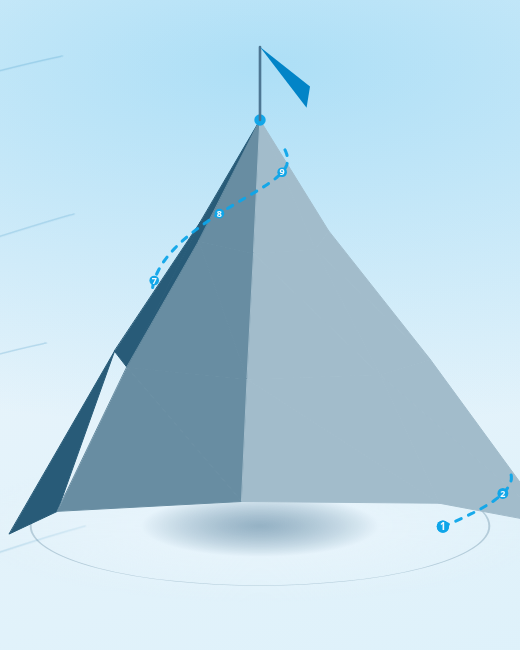
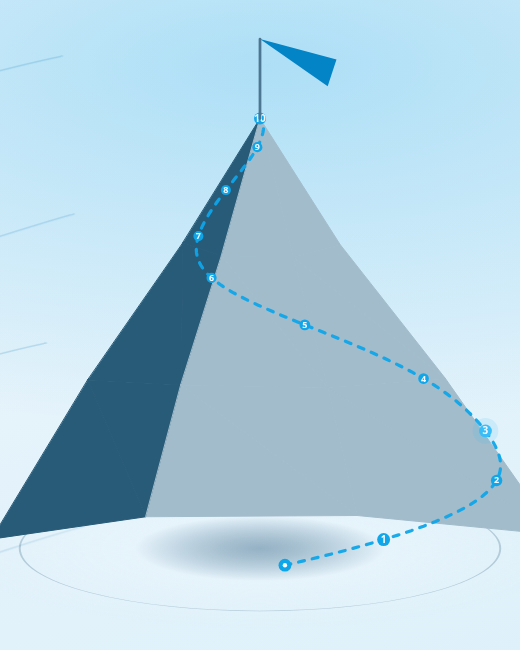
Match Summit to reference: front S-curve trail, all 10 stops
Author the trail as a front-face S-curve so stops 1–10 stay visible
at rest (like the brand graphic), with left/right facet shading,
trailhead, and summit flag.

diff --git a/assets/js/summit.js b/assets/js/summit.js
@@ -337,12 +337,15 @@
   }
 
   function trailPointAt(t) {
-    // Climbing spiral (~1.15 turns). With default yaw ≈ -0.35 most of the
-    // path sits on the front; back portions are gated by frontScore.
-    var y = -0.82 + t * (1.0 - -0.82);
-    var ang = -1.6 + t * Math.PI * 2 * 1.2;
+    // Reference look: S-curve draped on the FRONT face (left→right→left→peak).
+    // Angle stays in the camera-facing sector at default yaw so stops 1–10
+    // are all visible in the resting pose — like the brand graphic.
+    var y = -0.8 + t * (1.0 - -0.8);
+    // ~1.1 oscillations across the front, damping toward the peak
+    var swing = Math.sin(t * Math.PI * 2.15) * (1.05 - 0.4 * t);
+    var ang = -1.55 + swing;
     var rad = mountainRadiusAt(y, ang);
-    var inset = 0.98;
+    var inset = 0.99;
     return {
       p: v3(Math.cos(ang) * rad.rx * inset, y, Math.sin(ang) * rad.rz * inset),
       ang: ang,
@@ -370,13 +373,12 @@
    */
   function sampleStops(trail, peak) {
     var stops = [];
+    // Place stops 1–9 along the front S-curve with mild base bias
     for (var i = 0; i < STOP_COUNT - 1; i++) {
-      // Bias toward base so upper stops don't bunch
-      var u = Math.pow(i / (STOP_COUNT - 2), STOP_BIAS);
-      // Keep stop 9 short of the peak so stop 10 owns the summit
-      var t = u * 0.82; // leave more room below summit for stop 10
+      var u = Math.pow(i / (STOP_COUNT - 2), 1.12);
+      var t = 0.04 + u * 0.86; // keep clear of trailhead + summit
       var idx = Math.round(t * (trail.length - 1));
-      idx = Math.max(0, Math.min(trail.length - 2, idx));
+      idx = Math.max(1, Math.min(trail.length - 2, idx));
       stops.push({
         p: trail[idx].p,
         ang: trail[idx].ang,
@@ -385,9 +387,10 @@
         isSummit: false
       });
     }
+    // Stop 10 = summit / flag base
     stops.push({
       p: peak,
-      ang: 0,
+      ang: trail[trail.length - 1].ang,
       t: 1,
       index: STOP_COUNT - 1,
       isSummit: true
@@ -413,12 +416,12 @@
     this.mountain = buildMountain();
     this.trail = buildTrail(160);
     this.stops = sampleStops(this.trail, this.mountain.peak);
-    this.light = normalize(v3(-0.65, 0.55, -0.5)); // from front-left so front faces read lit
+    this.light = normalize(v3(-0.75, 0.4, -0.35)); // left-lit / right-shadow like reference
 
-    this.yaw = -0.35;
-    this.pitch = 0.18;
+    this.yaw = 0.15;
+    this.pitch = 0.12;
     this.roll = 0;
-    this.targetPitch = 0.18;
+    this.targetPitch = 0.12;
     this.targetRoll = 0;
     this.angularVel = BASE_ANGULAR_VEL;
     this.userSpin = 0;
@@ -547,7 +550,7 @@
     this.refreshMotionFlags();
     this.bindPointer();
     if (!this.parallaxEnabled) {
-      this.targetPitch = 0.18;
+      this.targetPitch = 0.12;
       this.targetRoll = 0;
     }
     this.syncLoop();
@@ -593,7 +596,7 @@
     var ny = ((e.clientY - rect.top) / rect.height) * 2 - 1;
     var max = (PARALLAX_MAX_DEG * Math.PI) / 180;
     this.targetRoll = -nx * max;
-    this.targetPitch = 0.18 + ny * max * 0.65;
+    this.targetPitch = 0.12 + ny * max * 0.65;
 
     if (this.dragging) {
       var dx = e.clientX - this.lastPointerX;
@@ -605,7 +608,7 @@
 
   Summit.prototype.onPointerLeave = function () {
     if (!this.parallaxEnabled) return;
-    this.targetPitch = 0.18;
+    this.targetPitch = 0.12;
     this.targetRoll = 0;
     this.dragging = false;
   };
@@ -696,8 +699,8 @@
 
     // Fit full mountain + ground + flag with margin (critical at ~220px)
     var cx = w * 0.5;
-    var cy = h * 0.5;
-    var scalePx = Math.min(w, h) * 0.42;
+    var cy = h * 0.52;
+    var scalePx = Math.min(w, h) * 0.44;
     var perspective = 3.4;
     var yaw = this.yaw;
     var pitch = this.pitch;
@@ -788,10 +791,9 @@
       var tw = transformPoint(tr.p, yaw, pitch, roll);
       var ts = project(tw, cx, cy, scalePx, perspective);
       var score = this.frontScore(tr.p, yaw);
-      // Front-hemisphere only — no silhouette kill (that erased the path).
-      // Hide points that float above the peak tip in screen space.
-      var abovePeak = ts.y < peakScreen.y - 6;
-      var visible = score > 0.08 && (tr.t > 0.88 || !abovePeak);
+      // Hide only clearly-back points (during rotation). Resting S-curve stays up.
+      var abovePeak = ts.y < peakScreen.y - 8;
+      var visible = score > -0.05 && (tr.t > 0.9 || !abovePeak);
       trailScreen.push({
         x: ts.x,
         y: ts.y,
@@ -854,18 +856,8 @@
       var sw = transformPoint(stop.p, yaw, pitch, roll);
       var ss = project(sw, cx, cy, scalePx, perspective);
       var sScore = stop.isSummit ? 1 : this.frontScore(stop.p, yaw);
-      var sFront = sScore > 0.08;
-      if (!stop.isSummit && !sFront) continue;
-      if (!stop.isSummit && ss.y < peakScreen.y - 6) continue;
-      // Drop floaters that land far outside the mountain screen bounds
-      if (!stop.isSummit) {
-        var maxX = 0;
-        for (var bi = 0; bi < frontTris.length; bi++) {
-          var ft = frontTris[bi];
-          maxX = Math.max(maxX, Math.abs(ft.a.x - cx), Math.abs(ft.b.x - cx), Math.abs(ft.c.x - cx));
-        }
-        if (Math.abs(ss.x - cx) > maxX * 1.08) continue;
-      }
+      if (!stop.isSummit && sScore < -0.05) continue;
+      if (!stop.isSummit && ss.y < peakScreen.y - 8) continue;
 
       var radius = (sti === activeStop ? 5.5 : 4.5) * Math.max(0.85, ss.w);
       radius = Math.max(radius, scalePx * 0.022);
@@ -882,9 +874,9 @@
         ctx.fill();
       }
 
-      // Skip number on summit (flag marks destination) and when too small
-      var fontPx = Math.round(Math.max(9, radius * 1.55));
-      if (!stop.isSummit && fontPx >= 9 && sFront) {
+      var fontPx = Math.round(Math.max(9, radius * 1.6));
+      var sFront = sScore > -0.05;
+      if (fontPx >= 9 && sFront) {
         ctx.fillStyle = cssColor(pal.paper, 0.98);
         ctx.font = '700 ' + fontPx + 'px ui-sans-serif, system-ui, sans-serif';
         ctx.textAlign = 'center';

diff --git a/index.html b/index.html
@@ -21,7 +21,7 @@
     <script defer src="/assets/js/icons.js"></script>
     <script defer src="/assets/js/hero-editor.js"></script>
     <script defer src="/assets/js/path-trail.js"></script>
-    <script defer src="/assets/js/summit.js?v=fix3"></script>
+    <script defer src="/assets/js/summit.js?v=ref2"></script>
     <script defer src="/assets/js/core.js"></script>
   </head>
   <body class="page page-home">